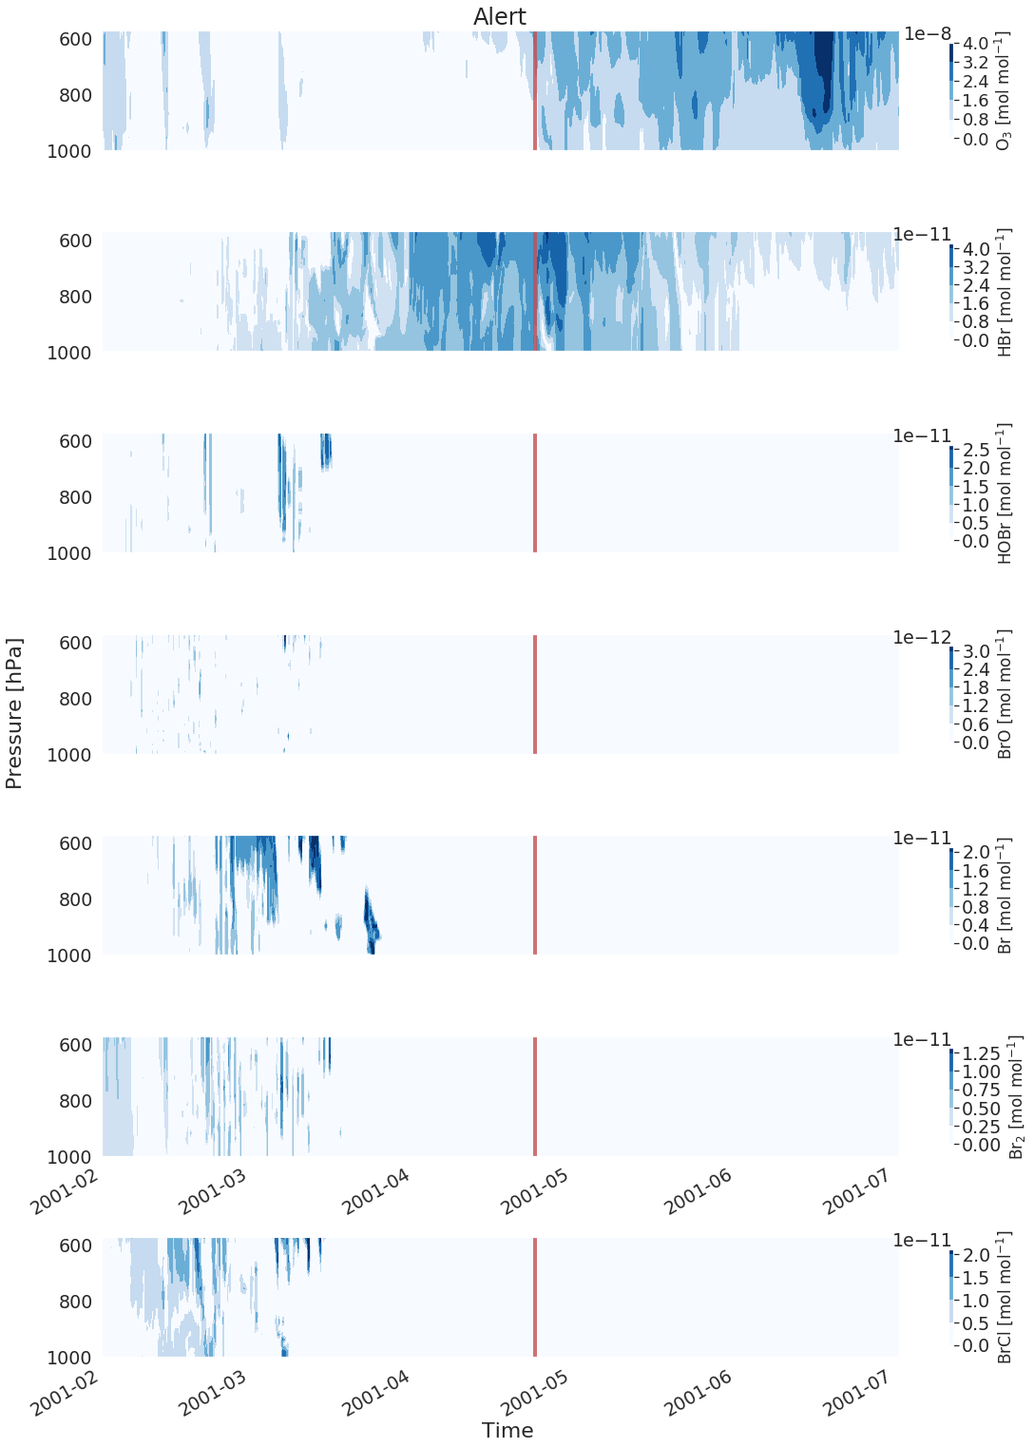
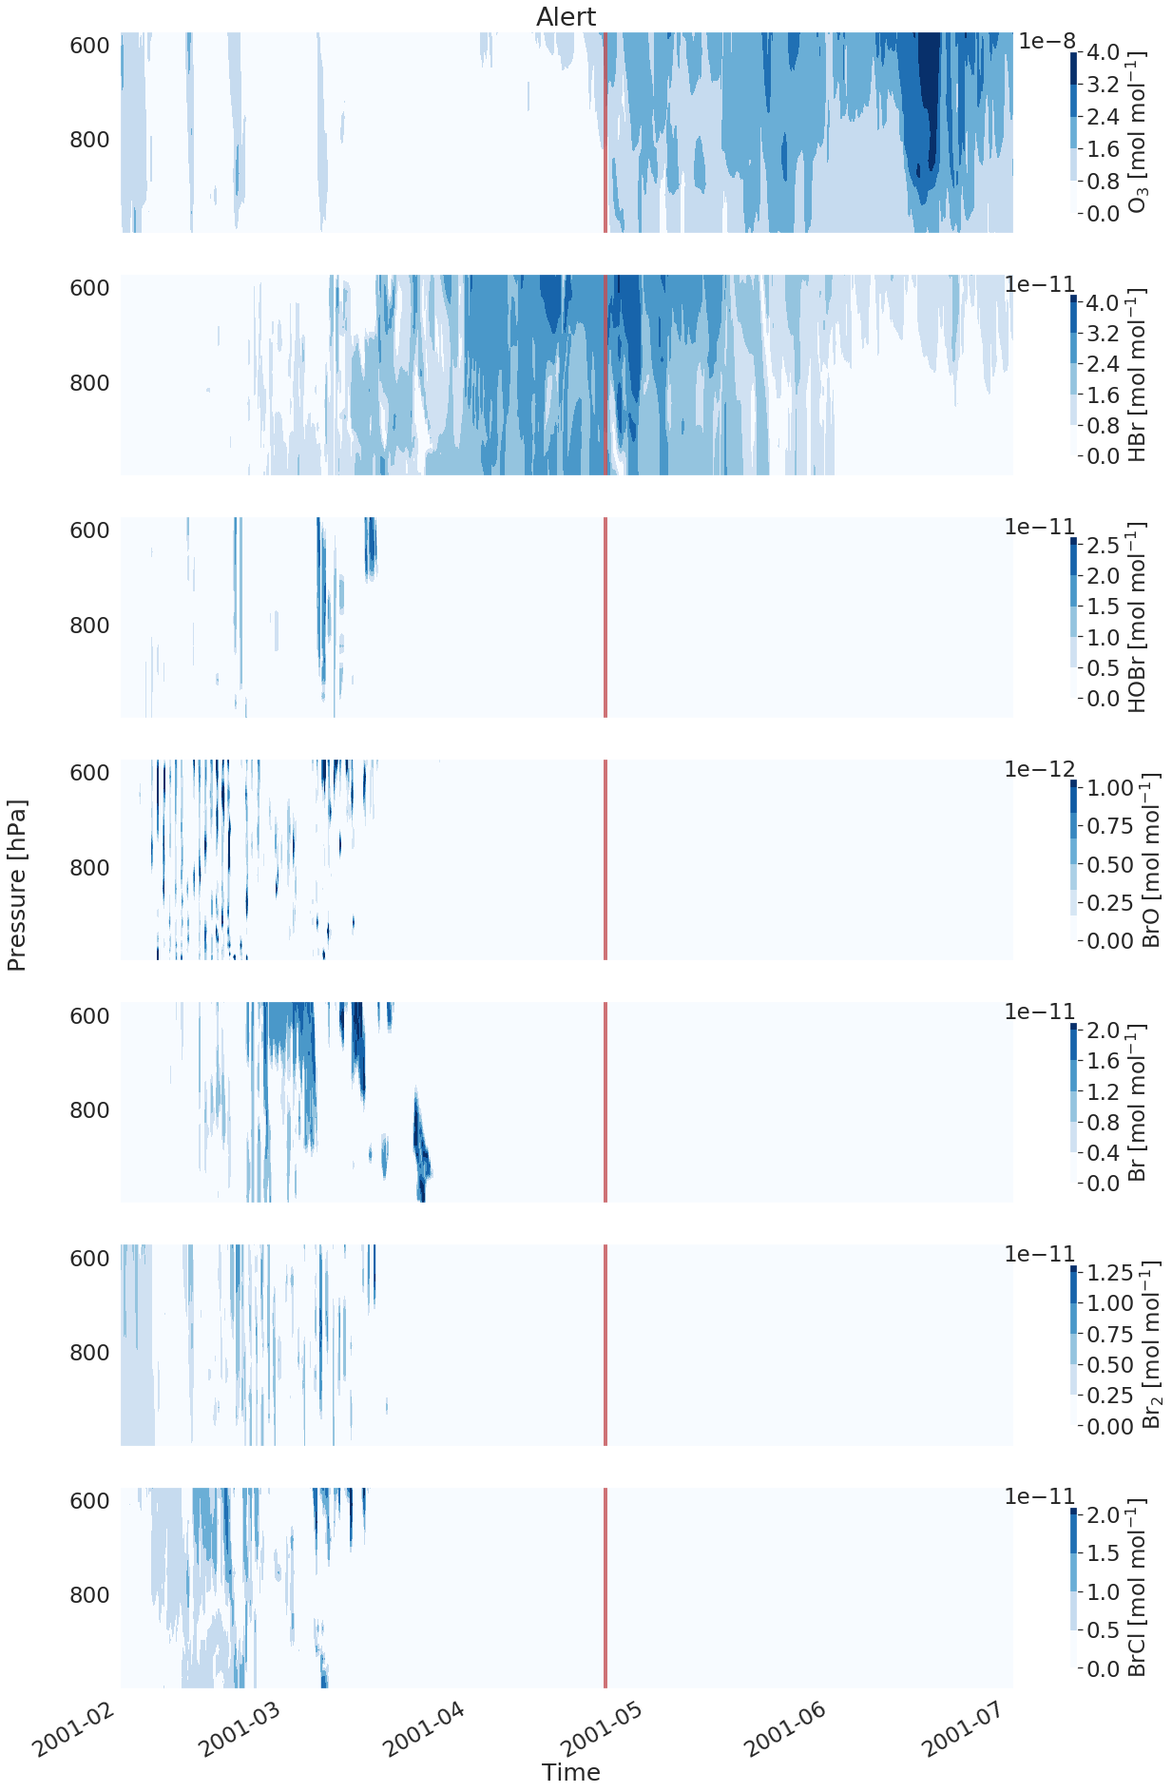
Siste for kvelden

diff --git a/Chapter6_Results/Results.tex b/Chapter6_Results/Results.tex
@@ -13,7 +13,7 @@ Figure \ref{fig:CompObsOrigBE} shows results in terms of $\chem{O_3}$-concentrat
 
 \medskip
 
-To verify the results, the measurements of $\chem{O_3}$ and \chem{HBr} available were used (see Appendix \ref{app:ebas_noaa_data}), as well as \chem{BrO} measurements from literature for comparison. Ozone was used as a proxy as it the implementation aimed for reproducibility of the ODEs seen in measurements. The \chem{HBr} measurements should in theory correspond to elevated concentrations after an ODE according to the box-model results by \cite{CAO}. Finally, \chem{BrO}-concentrations should be anti-correlated with the depletion of ozone (\cite{barrie}). 
+To verify the results, the measurements of $\chem{O_3}$ and \chem{HBr} available were used (see Appendix \ref{app:ebas_noaa_data}), as well as \chem{BrO} measurements from literature for comparison. Ozone observations were used to estimate the reproducibility of the ODEs in the model. The \chem{HBr} measurements should in theory correspond to elevated concentrations after an ODE according to the box-model results by \cite{CAO}. Finally, \chem{BrO}-concentrations should be anti-correlated with the depletion of ozone (\cite{barrie}). 
 
 \medskip
 
@@ -96,11 +96,11 @@ This section concerns the development of Branch \ref{def:BE_PD_noCl} with interm
 
 \subsubsection{Initializing Branch \ref{def:BE_PD_noCl} With a Higher \chem{HBr} Concentration}\label{sec:res_step2}
 
-In order to boost the concentration of \chem{HBr}, the concentration was hard-coded to 30 ppt ($= 8.059\cdot10^8 \text{molecules}cm^{-3}$ at $273.15 K$) and 10 ppt ($= 2.69\cdot10^8 \text{molecules}cm^{-3}$ at $273.15 K$), respectively, in the first sub-timestep of \texttt{pchemc\_ij.f90}. Further, a run initialized with a restart file from the 10 ppt run was performed in which the hard-coded concentration of \chem{HBr} was removed.
+As the halogen implementation led to low concentrations of the reactive halogen components (not shown here) an attempt was made to boost the concentration of \chem{HBr} to observed values. The thought behind this was to find out whether the halogen-chemistry did not work all together, or if the problem was that there was not enough reactive halogens initially. The concentration was thus hard-coded to 30 ppt ($= 8.059\cdot10^8 \text{molecules}cm^{-3}$ at $273.15 K$) and 10 ppt ($= 2.69\cdot10^8 \text{molecules}cm^{-3}$ at $273.15 K$), respectively, in the first sub-timestep of \texttt{pchemc\_ij.f90}. Further, a run initialized with a restart file from the 10 ppt run was performed in which the hard-coded concentration of \chem{HBr} was removed.
 
 \medskip
 
-Figure \ref{fig:ozone_noCl_step2} contains results from different attempts to boost the \chem{HBr}-concentration, to see the effect on ozone depletion. The first test, in which the concentration of \chem{HBr} was constantly boosted by hard-coding to maintain 30 ppt (green line), results in mixing ratios of $\chem{O_3}$ comparable to the original CTM3-branch (blue line). In the second test, the \chem{HBr}-concentration was hard-coded to 10 ppt (light green line), which results in concentrations more comparable to the measurements. Lastly, the test in which the run was initiated with a restart file from the previous hard-coded test (\chem{HBr} concentration of 10 ppt) (yellow line) also maintains concentrations comparable in magnitude with the observations. All these tests were ran for a short amount of time (2 weeks to a month, model time)
+Figure \ref{fig:ozone_noCl_step2} contains results from different attempts to initialize \chem{HBr} approximately correct values according to observations, to see the effect on ozone depletion. The first test, in which the concentration of \chem{HBr} was constantly boosted by hard-coding to maintain 30 ppt (green line), results in mixing ratios of $\chem{O_3}$ comparable to the original CTM3-branch (blue line). In the second test, the \chem{HBr}-concentration was hard-coded to 10 ppt (light green line), which results in concentrations more comparable to the measurements. Lastly, the test in which the run was initiated with a restart file from the previous hard-coded test (\chem{HBr} concentration of 10 ppt) (yellow line) also maintains concentrations comparable in magnitude with the observations. All these tests were ran for a short amount of time (2 weeks to a month, model time)
 
 \input{Chapter6_Results/images/ozone_stationComp_2001/ozone_noCl_step2}
 
@@ -108,11 +108,9 @@ Figure \ref{fig:ozone_noCl_step2} contains results from different attempts to bo
 
 Figure \ref{fig:vertHBr_newRestart} (see Appendix \ref{app:CTM3_dev}) contains the resulting \chem{HBr}-column above Alert, Barrow, Summit and Zeppelin up to approximately $600$ hPa. The \acrshort{vmr} is on the order of $25 - 250$ ppt maximum. The higher concentrations appear to be constrained to the lower layers of the troposphere to various extents. In the lowest layer, Figure \ref{fig:polarHBr_newRestart} (see Appendix \ref{app:CTM3_dev}) shows that the concentrations are on the order of $7.5\times10^{-7} - 1.5\times10^{-6}$gm$^{-3}$. Seen in relation with Figure \ref{fig:polarHOBr_newRestart}, \ref{fig:polarHBr_newRestart} (see Appendix \ref{app:CTM3_dev}) is anti-correlated. 
 
-
-
 \medskip
 
-The polar \chem{BrO}-column depicted in Figure \ref{fig:polarBro_newRestart} shows a \acrshort{vcd} on the order of $10^7 \text{molecules }$ cm$^{-2}$. 
+The polar modelled \chem{BrO}-column depicted in Figure \ref{fig:polarBro_newRestart} shows a \acrshort{vcd} on the order of $10^7 \text{molecules }$ cm$^{-2}$. 
 
 \clearpage
 \subsubsection{Hard-Coding Photodissociation and Adjusting the Henry'Law Coefficient}\label{sec:res_step3}
@@ -145,14 +143,14 @@ In the subsequent tests, the hard-coded photodissociation rates were included. T
 
 
 \begin{itemize}
-    \item \chem{HBr}: $7.2\cdot 10^{-1} [M/amt]$, $6100 K$ (Taken from: \cite{Chameides1992})
+    \item \chem{HBr}: $7.2\cdot 10^{-1} [M/atm]$, $6100 K$ (Taken from: \cite{Chameides1992})
     \item \chem{HCl}: $1.9\cdot10^1 [M/atm]$, $600 K$ (Taken from: \cite{dean1999})
 \end{itemize}
 
 The New H- high test was performed with:  
 
 \begin{itemize}
-    \item \chem{HBr}: $2.5 \cdot 10^{1} [M/amt]$, $370 K$ (Taken from: \cite{dean1999})
+    \item \chem{HBr}: $2.5 \cdot 10^{1} [M/atm]$, $370 K$ (Taken from: \cite{dean1999})
     \item \chem{HCl}: $1.9\cdot10^1 [M/atm]$, $600 K$ (Taken from: \cite{dean1999})
 \end{itemize}
 
@@ -329,7 +327,7 @@ Figure \ref{fig:ozone_2013} in Appendix \ref{app:final_version} contains the ava
 
 \medskip
 
-In Figure \ref{fig:ozonosonde2013}, ozonesonde measurements taken at Summit are compared with model results from the original CTM3 and the BE-branch averaged $\chem{O_3}$ \acrshort{vmr} (over the whole of the Arctic, above 68$^o$N) in each model layer up to about 0 hPa. The BE-branch $\chem{O_3}$\acrshort{vmr} at the ground level from March 7th to April 4th is about 2-3 ppb, 9-10 ppb from April 11th to April 25th, and 2-3 ppb again for the rest of the period. From the observation, the ozone-\acrshort{vmr} at the lowest level is about 50 ppb constantly throughout the period\footnote{This can also be seen from the ground-level measurements at Summit in Figure \ref{fig:ozone_2013} in Appendix \ref{app:final_version}}. The Original CTM3 produces about 20 ppb at the ground level throughout the time period. The BE-branch also displays large standard deviations in the atmospheric layers below 200-300 hPa. The standard deviations decreases with altitude, and at about 50 hPa, the BE-branch- and Original CTM3 profiles coincide. The Original CTM3 produces mixing ratios more comparable to the observations up to approximately 300 hPa, and increases constantly thereafter with a steep slope, diverging from the observations. Both model runs end up at approximately the same mixing ratios as the observations around 0 hPa.  
+In Figure \ref{fig:ozonosonde2013}, ozonesonde measurements taken at Summit are compared with model results from the original CTM3 and the BE-branch averaged $\chem{O_3}$ \acrshort{vmr} (over the whole of the Arctic, above 68$^o$N) in each model layer. The BE-branch $\chem{O_3}$\acrshort{vmr} at the ground level from March 7th to April 4th is about 2-3 ppb, 9-10 ppb from April 11th to April 25th, and 2-3 ppb again for the rest of the period. From the observation, the ozone-\acrshort{vmr} at the lowest level is about 50 ppb constantly throughout the period\footnote{This can also be seen from the ground-level measurements at Summit in Figure \ref{fig:ozone_2013} in Appendix \ref{app:final_version}}. The Original CTM3 produces about 20 ppb at the ground level throughout the time period. The BE-branch also displays large standard deviations in the atmospheric layers below 200-300 hPa. The standard deviations decreases with altitude, and at about 50 hPa, the BE-branch- and Original CTM3 profiles coincide. The Original CTM3 produces mixing ratios more comparable to the observations up to approximately 300 hPa, and increases constantly thereafter with a steep slope, diverging from the observations. Both model runs end up at approximately the same mixing ratios as the observations at the highest point.  
 
 
 \input{Chapter6_Results/images/ozone_stationComp_2013/OZONOSONDE_2013}

diff --git a/Chapter7_Discussion/discussion.tex b/Chapter7_Discussion/discussion.tex
@@ -18,8 +18,6 @@ Throughout the development section, results will be compared against three proxy
     \item \chem{BrO}-\acrlong{vcd} measurements from Barrow (see Figure \ref{fig:Peterson_2015} taken from \cite{Peterson2015})
 \end{itemize}
 
-\subsection{A First Look}
-
 In Figure \ref{fig:CompObsOrigBE}, Section \ref{sec:results_code_development}, the ozone observations at Alert, Barrow, Summit and Zeppelin were compared to the model results using the original CTM3 branch (Branch \ref{def:origCTM3_PD}) and the bromine explosion branch (Branch \ref{def:BE_PD}). The latter produced far too low $\chem{O_3}$-concentrations even though the bromine content was too low to justify the low ozone-concentration (not shown here). In order to examine the reason why, a test where the different types of heterogeneous reactions were removed was performed. This is explained in the next section. 
 
 \subsection{Test: Removing Heterogeneous Reactions}
@@ -181,7 +179,7 @@ The vertical profiles shown in Figure \ref{fig:vert_RF_2001} for 2001 and Figure
 
 \medskip
 
-Differences between the BE-branch and the Original CTM3 in monthly averaged RF in the first model layer are shown for the year 2001 (Figures \ref{fig:BEorig_RF_polar_FebApr_2001}-\ref{fig:BEorig_RF_polar_AprJune_2001}) and 2013 (Figures \ref{fig:BEorig_RF_polar_FebApr_2013}-\ref{fig:BEorig_RF_polar_AprJune_2013}). In 2001, the Original CTM3 produces higher RF than the BE-branch, which was expected, as the ozone \acrshort{vmr} at the ground level in the Arctic seen in Figures \ref{fig:BE_origPD_vmr_lev0_FebApr}-\ref{fig:BE_origPD_vmr_lev0_AprJune} consistently showed higher values produced by the Original CTM3. It is also in agreement with the effects \cite{Sherwen2017} found after implementing halogen chemistry, which was a reduction in the ozone-induced RF. In 2013, however, the BE-branch produces ozone-induced RF-values comparable to the Original CTM3, and the difference between the two is relatively small. 
+Differences between the BE-branch and the Original CTM3 in monthly averaged RF in the first model layer are shown for the year 2001 (Figures \ref{fig:BEorig_RF_polar_FebApr_2001}-\ref{fig:BEorig_RF_polar_AprJune_2001}) and 2013 (Figures \ref{fig:BEorig_RF_polar_FebApr_2013}-\ref{fig:BEorig_RF_polar_AprJune_2013}). In 2001, the Original CTM3 produces higher RF than the BE-branch, which was expected, as the ozone \acrshort{vmr} at the ground level in the Arctic seen in Figures \ref{fig:BE_origPD_vmr_lev0_FebApr}-\ref{fig:BE_origPD_vmr_lev0_AprJun} consistently showed higher values produced by the Original CTM3. It is also in agreement with the effects \cite{Sherwen2017} found after implementing halogen chemistry, which was a reduction in the ozone-induced RF. In 2013, however, the BE-branch produces ozone-induced RF-values comparable to the Original CTM3, and the difference between the two is relatively small. 
 
 \medskip
 

diff --git a/Chapter1_Intro/Introduction.tex b/Chapter1_Intro/Introduction.tex
@@ -7,9 +7,8 @@ In the Arctic, the temperature increase seen in observations and from model runs
 
 \medskip
 
-Ozone is a powerful greenhouse gas in terms of \acrfull{rf}, both in the stratosphere and in the troposphere. In 2013, The \acrfull{ipcc} estimated the globally averaged \acrshort{rf} due to tropospheric ozone to be 0.40$\pm$0.20Wm$^{-2}$ (\cite{IPCCchapter8}). Ozone is, however, distinguished from other greenhouse gases due to it's short lifetime and highly heterogeneous distribution. The short lifetime of ozone classifies it as a 'near-term climate forcer', i.e. a species whos impact on climate occurs within the first decade after it's emission (\cite{IPCCchapter8}). In the free troposphere, ozone may have a lifetime of weeks to months. Consequently, ozone and its precursors may be transported from polluted mid-latitude areas to the Arctic directly (\cite{AMAP2015}). In order to better understand the ozone-induced \acrshort{rf} in the Earth-atmosphere system, better modelling of the tropospheric ozone content and processes is needed (e.g. \cite{Bowman2013}, \cite{Parella}). 
+Ozone is a powerful greenhouse gas in terms of \acrfull{rf}, both in the stratosphere and in the troposphere. In 2013, The \acrfull{ipcc} estimated the globally averaged \acrshort{rf} due to tropospheric ozone to be 0.40$\pm$0.20Wm$^{-2}$ (\cite{IPCCchapter8}). Ozone is, however, distinguished from other greenhouse gases due to it's short lifetime and highly heterogeneous distribution. The short lifetime of ozone classifies it as a 'near-term climate forcer', i.e. a species whos impact on climate occurs within the first decade after it's emission (\cite{IPCCchapter8}). In the free troposphere, ozone may have a lifetime of weeks to months. Consequently, ozone and its precursors may be transported from polluted mid-latitude areas to the Arctic directly (\cite{AMAP2015}). \cite{Sherwen2017} found that model estimates of $\chem{O_3}$-induced tropospheric \acrshort{rf} that does not consider halogen chemistry are likely about \SI{25}{\permille} too large.  In order to better understand the ozone-induced \acrshort{rf} in the Earth-atmosphere system, better modelling of the tropospheric ozone content and processes is thus needed (\cite{Sherwen2017}, \cite{Bowman2013}, \cite{Parella}). 
 
-\medskip
 
 %In the Arctic, the \acrfull{bl} is generally shallow, and frequent inversions causes small temperature differences between the surface and the tropopause. In addition, there are often cloud-covered skies.  
 

diff --git a/Chapter6_Results/images/ozone_stationComp_2001/ozone_2001_step3.tex b/Chapter6_Results/images/ozone_stationComp_2001/ozone_2001_step3.tex
@@ -1,8 +1,25 @@
 \begin{figure}[ht]
     \centering
     \includegraphics[width=\linewidth]{Chapter6_Results/images/ozone_stationComp_2001/ozone_2001_step3.png}
-    \caption{Ozone measurements (black line) and model results from the original CTM3 (blue line) (these two are the same as in Figure \ref{fig:CompObsOrigBE}), test with new restart file from Section \ref{sec:res_step2} (turquoise line), hard-coded photodissociation rates (green line), new (low) Henry's law constant of $7.2\times10^{-1} M atm ^{-1}$ and $6100 K$ (light green line), new (high) Henry's law constant of $2.5\times10^{1} M atm ^{-1}$ and $370 K$ (yellow line) and the latter ran at \texttt{HTWO} resolution (orange line) at the four different stations, Alert (top left), Barrow (top right), Summit (lower left) and Zeppelin (lower right) with available measurements in 2001. Model results were taken from the approximate altitude of the station in hPa \protect\footnotemark}
+    \caption{Ozone measurements (black line) and model results from the original CTM3 (blue line) (these two are the same as in Figure \ref{fig:CompObsOrigBE}), test with new restart file from Section \ref{sec:res_step2} (turquoise line), hard-coded photodissociation rates (green line), new (low) Henry's law constant ($7.2\times10^{-1} M atm ^{-1}$, $6100 K$) (light green line), new (high) Henry's law constant ($2.5\times10^{1} M atm ^{-1}$, $370 K$) (yellow line) and the latter ran at \texttt{HTWO} resolution (orange line) at the four different stations, Alert (top left), Barrow (top right), Summit (lower left) and Zeppelin (lower right) with available measurements in 2001. Model results were taken from the approximate altitude of the station in hPa \protect\footnotemark}
     \label{fig:ozone_2001_step3}
 \end{figure}
 
 \footnotetext{H = Henry's Law}
+
+
+
+The New H - low test was performed with: 
+
+
+% \begin{itemize}
+%     \item \chem{HBr}: $7.2\cdot 10^{-1} [M/atm]$, $6100 K$ (Taken from: \cite{Chameides1992})
+%     \item \chem{HCl}: $1.9\cdot10^1 [M/atm]$, $600 K$ (Taken from: \cite{dean1999})
+% \end{itemize}
+
+% The New H- high test was performed with:  
+
+% \begin{itemize}
+%     \item \chem{HBr}: $2.5 \cdot 10^{1} [M/atm]$, $370 K$ (Taken from: \cite{dean1999})
+%     \item \chem{HCl}: $1.9\cdot10^1 [M/atm]$, $600 K$ (Taken from: \cite{dean1999})
+% \end{itemize}

diff --git a/Chapter6_Results/images/ozone_stationComp_2001/ozone_2001_step4.tex b/Chapter6_Results/images/ozone_stationComp_2001/ozone_2001_step4.tex
@@ -1,6 +1,6 @@
 \begin{figure}[ht]
     \centering
     \includegraphics[width=\linewidth]{Chapter6_Results/images/ozone_stationComp_2001/ozone_2001_step4.png}
-    \caption{Ozone measurements (black line) and model results from the original CTM3 (blue line) (these two are the same as in Figure \ref{fig:CompObsOrigBE}), Henry's law constant of $2.5\times10^{1} M atm ^{-1}$ and $370 K$ at \texttt{HTWO} resolution (turquoise line) and a final version with a new, higher Henry's law constant of $7.2\times10^{4} M atm ^{-1}$ and $10 000 K$ also at \texttt{HTWO} resolution (green line) at the four different stations, Alert (top left), Barrow (top right), Summit (lower left) and Zeppelin (lower right) with available measurements in 2001. Model results were taken from the approximate altitude of the station in hPa}
+    \caption{Ozone measurements (black line) and model results from the original CTM3 (blue line) (these two are the same as in Figure \ref{fig:CompObsOrigBE}), the high Henry's law constant from Figure \ref{fig:ozone_2001_step3} ($2.5\times10^{1} M atm ^{-1}$, $370 K$) at \texttt{HTWO} resolution (turquoise line) and a final version with a new, higher Henry's law constant ($7.2\times10^{4} M atm ^{-1}$, $10 000 K$) also at \texttt{HTWO} resolution (green line) at the four different stations, Alert (top left), Barrow (top right), Summit (lower left) and Zeppelin (lower right) with available measurements in 2001. Model results were taken from the approximate altitude of the station in hPa}
     \label{fig:ozone_2001_step4}
 \end{figure}

diff --git a/Chapter6_Results/images/Vert_StationComp_2001/vert_all_species_ZEP.tex b/Chapter6_Results/images/Vert_StationComp_2001/vert_all_species_ZEP.tex
@@ -1,6 +1,6 @@
 \begin{figure}[h]
     \centering
-    \includegraphics[width=\linewidth]{Chapter6_Results/images/Vert_StationComp_2001/vert_all_species_ZEP.png}
-    \caption{Mixing ratio ($mol mol^{-1}$) of $\chem{O_3}$, $\chem{HBr}$, $\chem{HOBr}$, $\chem{BrO}$,$\chem{Br}$ and $\chem{Br_2}$ from the station ground level up to $\sim 600 hPa$ at Zeppelin in Period 1 (left of the red line) and Period 2 (right of the red line) in 2001}
+    \includegraphics[width=0.9\linewidth]{Chapter6_Results/images/Vert_StationComp_2001/vert_all_species_ZEP.png}
+    \caption{Mixing ratio ($mol mol^{-1}$) of $\chem{O_3}$, $\chem{HBr}$, $\chem{HOBr}$, $\chem{BrO}$,$\chem{Br}$ and $\chem{Br_2}$ from the station ground level up to $\sim 600 hPa$ at Zeppelin in Period 1 (left of the red line) and Period 2 (right of the red line) in 2001 \textbf{Note:} the max \chem{BrO} vmr was adjusted down to properly see the maxima}
     \label{fig:vert_ZEP}
 \end{figure}

diff --git a/Chapter6_Results/images/Vert_StationComp_2001/vert_all_species_BRW.tex b/Chapter6_Results/images/Vert_StationComp_2001/vert_all_species_BRW.tex
@@ -1,6 +1,6 @@
 \begin{figure}[h]
     \centering
-    \includegraphics[width=\linewidth]{Chapter6_Results/images/Vert_StationComp_2001/vert_all_species_BRW.png}
-    \caption{Mixing ratio ($mol mol^{-1}$) of $\chem{O_3}$, $\chem{HBr}$, $\chem{HOBr}$, $\chem{BrO}$,$\chem{Br}$ and $\chem{Br_2}$ from the station ground level up to $\sim 600 hPa$ at Barrow in Period 1 (left of the red line) and Period 2 (right of the red line) in 2001}
+    \includegraphics[width=0.8\linewidth]{Chapter6_Results/images/Vert_StationComp_2001/vert_all_species_BRW.png}
+    \caption{Mixing ratio ($mol mol^{-1}$) of $\chem{O_3}$, $\chem{HBr}$, $\chem{HOBr}$, $\chem{BrO}$,$\chem{Br}$ and $\chem{Br_2}$ from the station ground level up to $\sim 600 hPa$ at Barrow in Period 1 (left of the red line) and Period 2 (right of the red line) in 2001. \textbf{Note:} the max \chem{BrO} vmr was adjusted down to properly see the maxima}
     \label{fig:vert_BRW}
 \end{figure}

diff --git a/Chapter6_Results/images/Vert_StationComp_2001/vert_all_species_SUM.tex b/Chapter6_Results/images/Vert_StationComp_2001/vert_all_species_SUM.tex
@@ -1,6 +1,6 @@
 \begin{figure}[h]
     \centering
-    \includegraphics[width=\linewidth]{Chapter6_Results/images/Vert_StationComp_2001/vert_all_species_SUM.png}
-    \caption{Mixing ratio ($mol mol^{-1}$) of $\chem{O_3}$, $\chem{HBr}$, $\chem{HOBr}$, $\chem{BrO}$,$\chem{Br}$ and $\chem{Br_2}$ from the station ground level up to $\sim 400 hPa$ at Summit in Period 1 (left of the red line) and Period 2 (right of the red line) in 2001}
+    \includegraphics[width=0.8\linewidth]{Chapter6_Results/images/Vert_StationComp_2001/vert_all_species_SUM.png}
+    \caption{Mixing ratio ($mol mol^{-1}$) of $\chem{O_3}$, $\chem{HBr}$, $\chem{HOBr}$, $\chem{BrO}$,$\chem{Br}$ and $\chem{Br_2}$ from the station ground level up to $\sim 400 hPa$ at Summit in Period 1 (left of the red line) and Period 2 (right of the red line) in 2001. \textbf{Note:} the max \chem{BrO} vmr was adjusted down to properly see the maxima}
     \label{fig:vert_SUM}
 \end{figure}

diff --git a/Chapter6_Results/images/Vert_StationComp_2001/vert_all_species_ALT.tex b/Chapter6_Results/images/Vert_StationComp_2001/vert_all_species_ALT.tex
@@ -1,6 +1,6 @@
 \begin{figure}[h]
     \centering
-    \includegraphics[width=\linewidth]{Chapter6_Results/images/Vert_StationComp_2001/vert_all_species_ALT.png}
-    \caption{Mixing ratio ($mol mol^{-1}$) of $\chem{O_3}$, $\chem{HBr}$, $\chem{HOBr}$, $\chem{BrO}$,$\chem{Br}$ and $\chem{Br_2}$ from the station ground level up to $\sim 600 hPa$ at Alert in Period 1 (left of the red line) and Period 2 (right of the red line) in 2001}
+    \includegraphics[width=0.8\linewidth]{Chapter6_Results/images/Vert_StationComp_2001/vert_all_species_ALT.png}
+    \caption{Mixing ratio ($mol mol^{-1}$) of $\chem{O_3}$, $\chem{HBr}$, $\chem{HOBr}$, $\chem{BrO}$,$\chem{Br}$ and $\chem{Br_2}$ from the station ground level up to $\sim 600 hPa$ at Alert in Period 1 (left of the red line) and Period 2 (right of the red line) in 2001. \textbf{Note:} the max \chem{BrO} vmr was adjusted down to properly see the maxima}
     \label{fig:vert_ALT}
 \end{figure}
